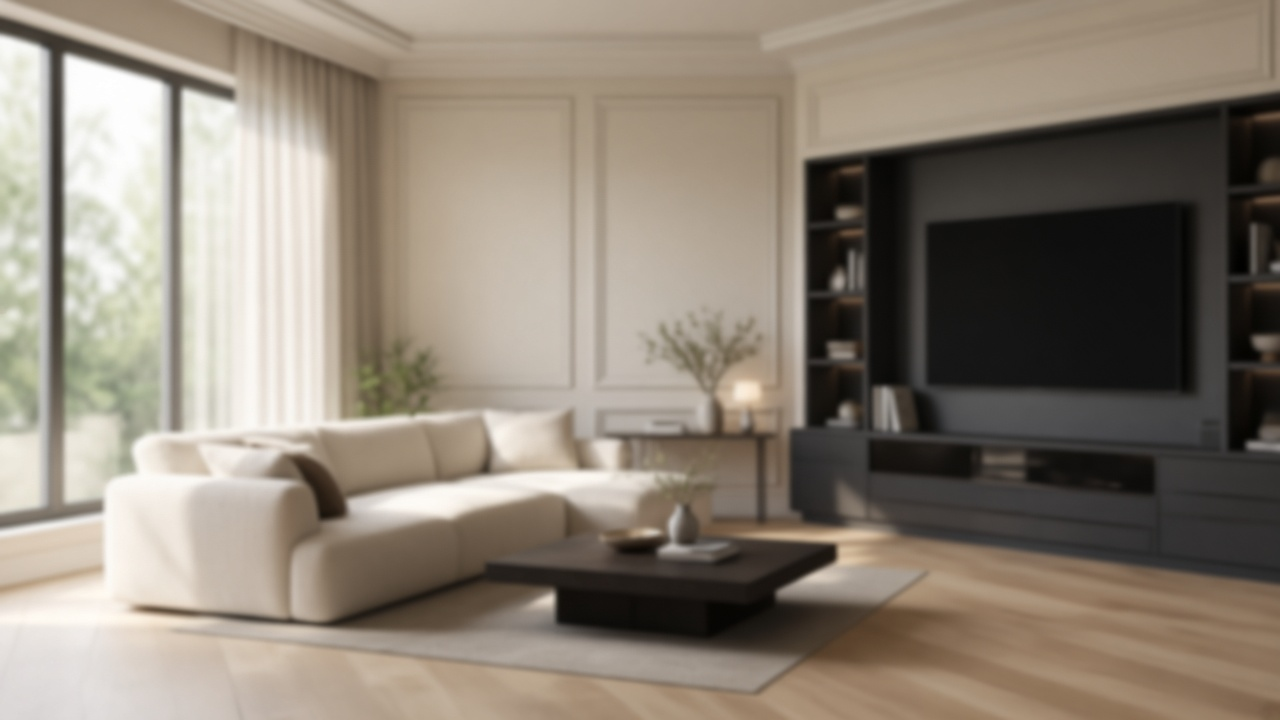
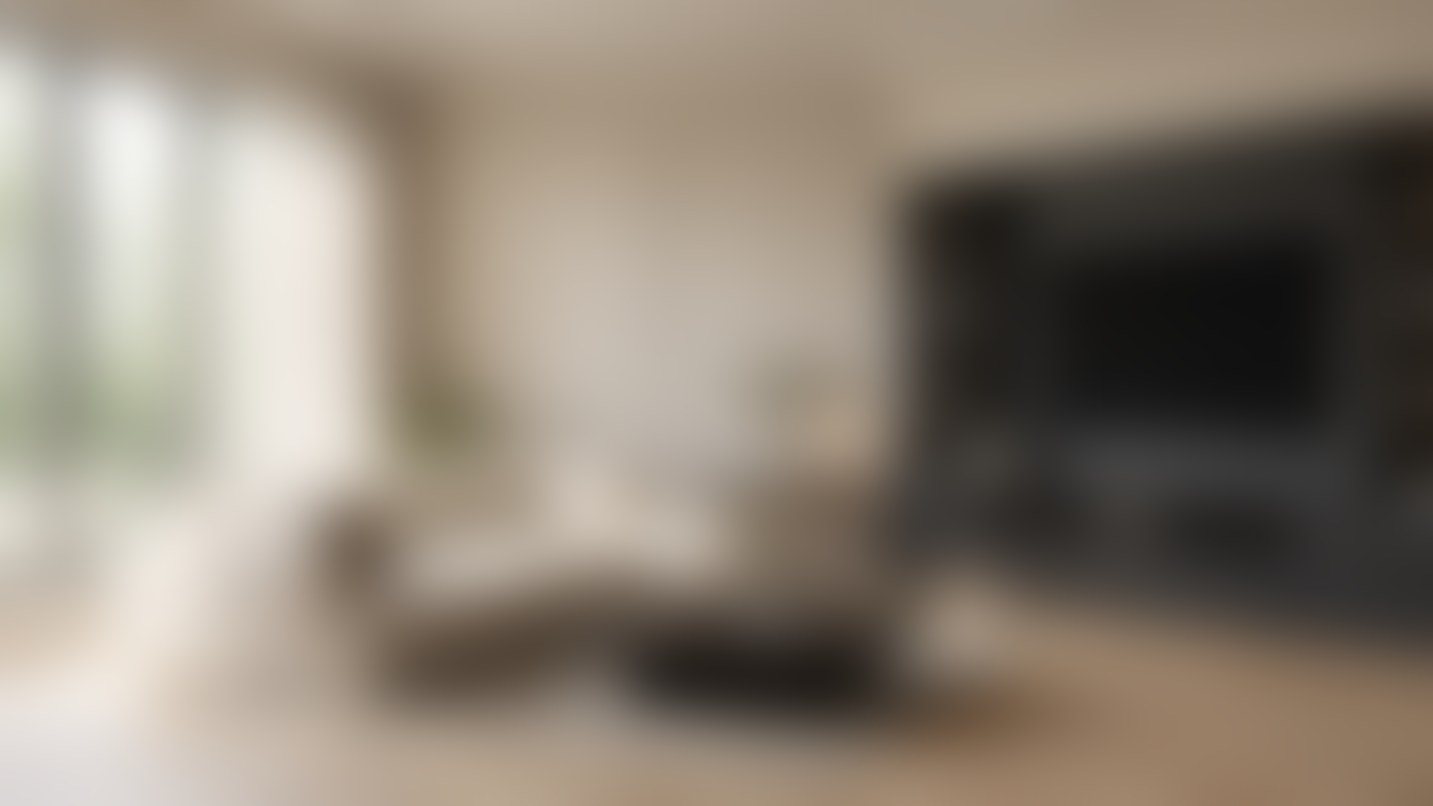
admin: bake room blur so mobile glass can see through
Mobile Chrome/WebView was sampling the solid body color for
backdrop-filter because .bg used filter:blur + transform on a fixed
layer. Pre-blur room-bg.jpg and drop those CSS effects so frost panels
sample the interior photo again.

diff --git a/admin/index.html b/admin/index.html
@@ -41,14 +41,21 @@
     background: #2a221c;
   }
 
-  /* Warm interior PHOTO — blur 40px, scale 1.1 (video frame match) */
+  /* Warm interior PHOTO — blur baked into room-bg.jpg.
+     Mobile Chrome/WebView (Android) and Safari often fail to sample a
+     filtered/transformed fixed layer as a backdrop-filter source, so panels
+     would blur the solid body color instead of the room and look opaque. */
   .bg {
     position: fixed;
-    inset: -8%;
+    inset: 0;
     z-index: 0;
+    width: 100%;
+    height: 100%;
+    min-height: 100vh;
+    min-height: 100dvh;
     background: url('room-bg.jpg') center / cover no-repeat;
-    filter: blur(40px);
-    transform: scale(1.1);
+    /* no filter / transform — keeps this layer a valid backdrop source on mobile */
+    pointer-events: none;
   }
   /* Soft warm wash only — no teal/coral/emerald orbs */
   .accents {
@@ -556,7 +563,13 @@
     .grid-2, .grid-3 { grid-template-columns: 1fr; }
   }
   @media (max-width: 720px) {
-    .app { grid-template-columns: 1fr; padding: 12px; gap: 12px; }
+    html, body {
+      /* allow normal scroll compositing on mobile; keep bg covering via fixed .bg */
+      overflow-x: hidden;
+      overflow-y: auto;
+      -webkit-overflow-scrolling: touch;
+    }
+    .app { grid-template-columns: 1fr; padding: 12px; gap: 12px; min-height: 100dvh; height: auto; }
     .sidebar {
       flex-direction: row;
       width: 100%;
@@ -564,12 +577,30 @@
       max-height: none;
       overflow-x: auto;
       padding: 10px 14px;
+      /* slightly clearer frost so room shows through on small screens */
+      background: rgba(255, 255, 255, 0.10);
+    }
+    .main {
+      background: rgba(255, 255, 255, 0.10);
+    }
+    .card, .glass-card {
+      background: rgba(255, 255, 255, 0.18);
     }
     .nav-spacer { display: none; }
     .brand { margin-bottom: 0; width: 38px; height: 38px; font-size: 11px; }
     .nav-btn { width: 40px; height: 40px; }
     .bottom-pill { display: none; }
     .page-head h1 { font-size: 22px; }
+  }
+
+  /* Fallback when backdrop-filter unsupported — still translucent, not solid */
+  @supports not ((-webkit-backdrop-filter: blur(1px)) or (backdrop-filter: blur(1px))) {
+    .sidebar, .main, .topbar, .bottom-pill {
+      background: rgba(255, 255, 255, 0.22);
+    }
+    .card, .glass-card {
+      background: rgba(255, 255, 255, 0.28);
+    }
   }
 </style>
 </head>
